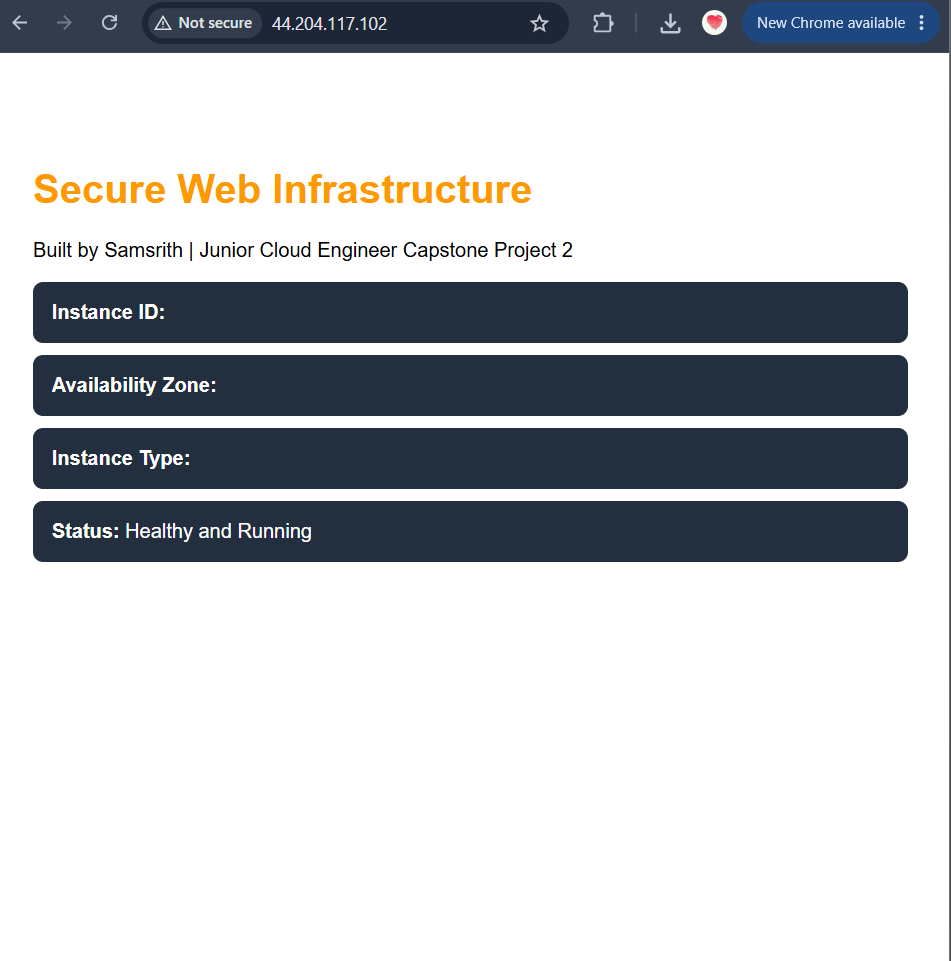
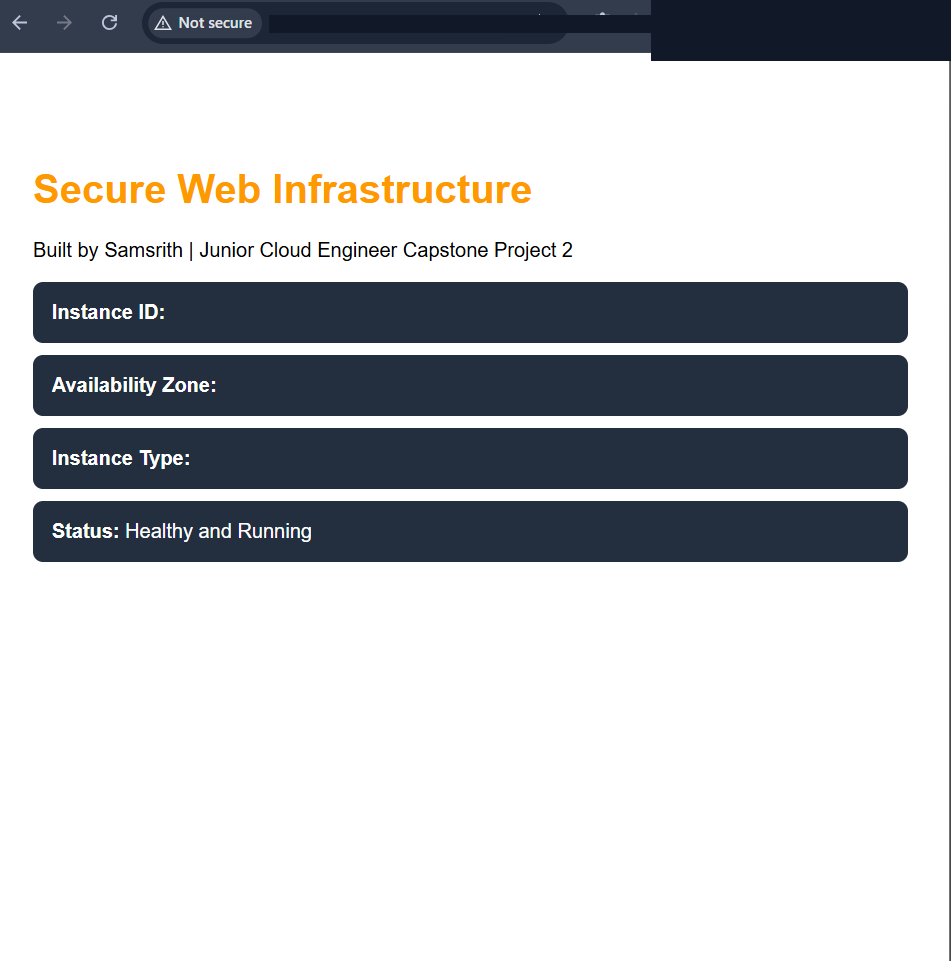
Redact AWS identifiers from portfolio screenshots

Changed region(s): [[0.5489, 0.0, 1.0, 0.0624], [0.2744, 0.0, 0.3964, 0.0312]]

diff --git a/README.md b/README.md
@@ -87,7 +87,7 @@ Delivered VPC Flow Logs to CloudWatch Logs and filtered the records to confirm b
 - MFA was enabled for the lab IAM user.
 - No private key, secret access key, password, or `.env` file is stored in this repository.
 - The `.gitignore` excludes common credential-file formats.
-- AWS account IDs, ARNs, IP addresses, and resource IDs visible in screenshots should be redacted before the repository is used as a public portfolio link.
+- Public screenshots redact AWS account IDs, ARNs, public IP addresses, temporary access-key IDs, and resource IDs while preserving implementation evidence.
 
 ## Cleanup
 
